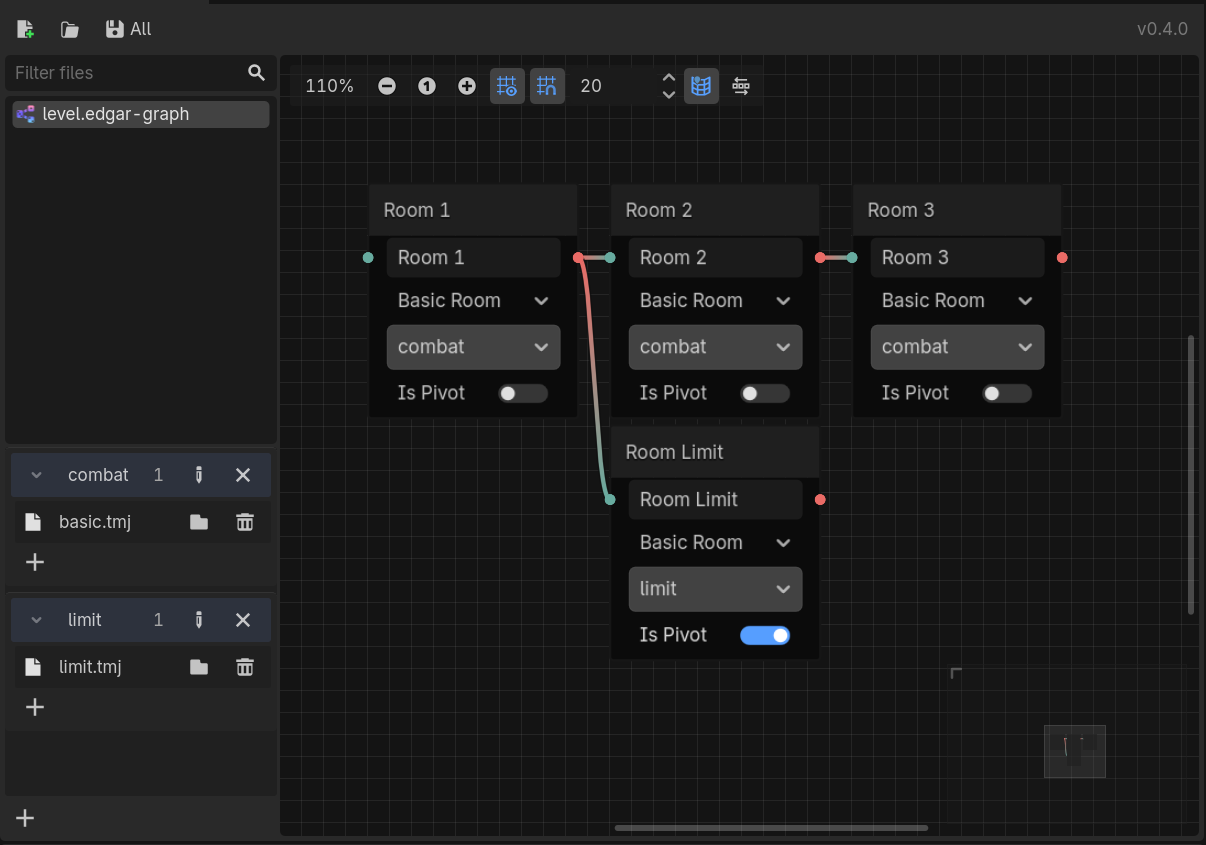
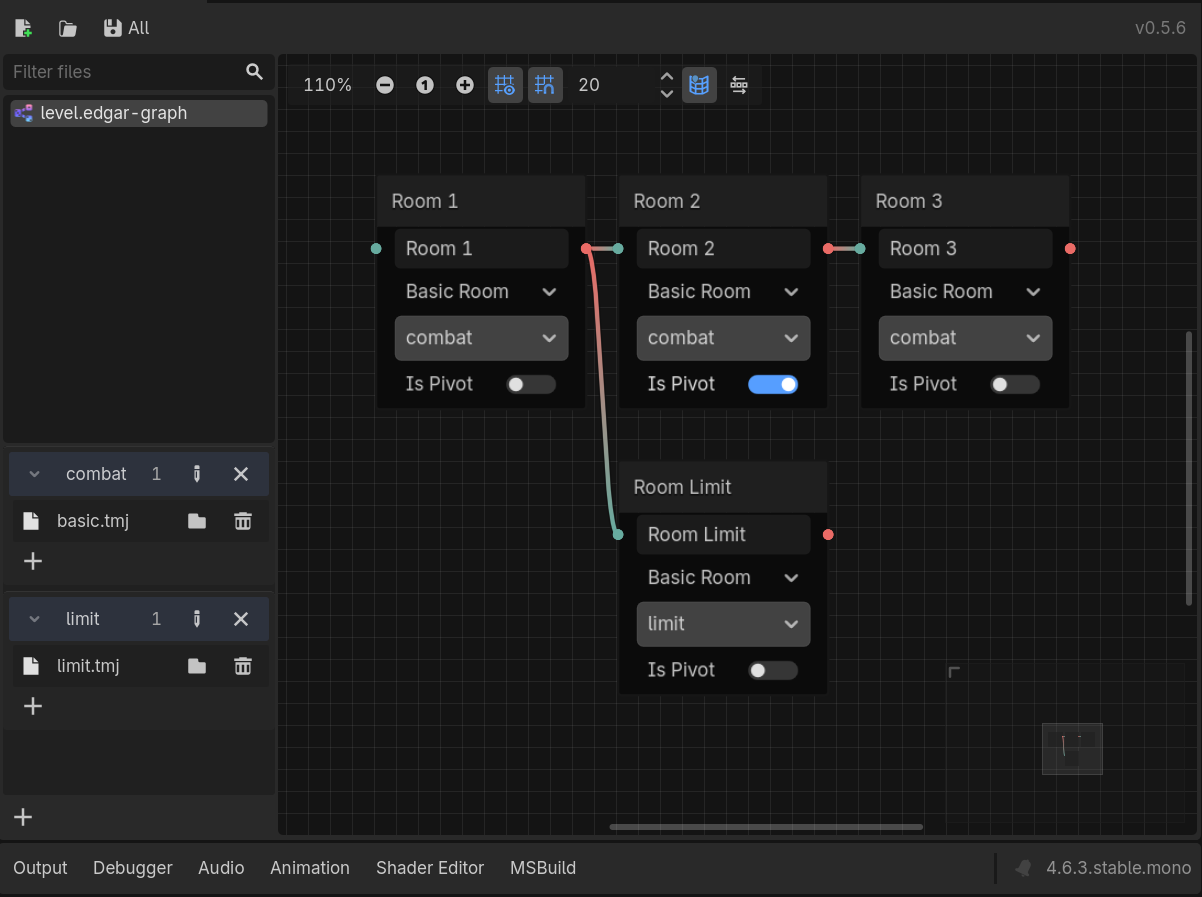
update: docs

diff --git a/readme.md b/readme.md
@@ -29,7 +29,7 @@ Edgar.Godot consumes map files (`*.tscn` / `*.scn` / `*.tmx` / `*.tmj`) and cust
 - 🌑 **Fog of War (FOW)**: Dynamic visibility system that reveals explored areas while hiding unexplored regions.
 - 🗺️ **Minimap**: Real-time minimap display for navigation and overview of generated dungeons.
 
-![Edgar Designer](docs/images/edgar_designer.png)
+![alt text](docs/images/edgar_designer.png)
 > Edgar Designer
 
 ![FOW & Minimap Demo](docs/images/minimap.png)